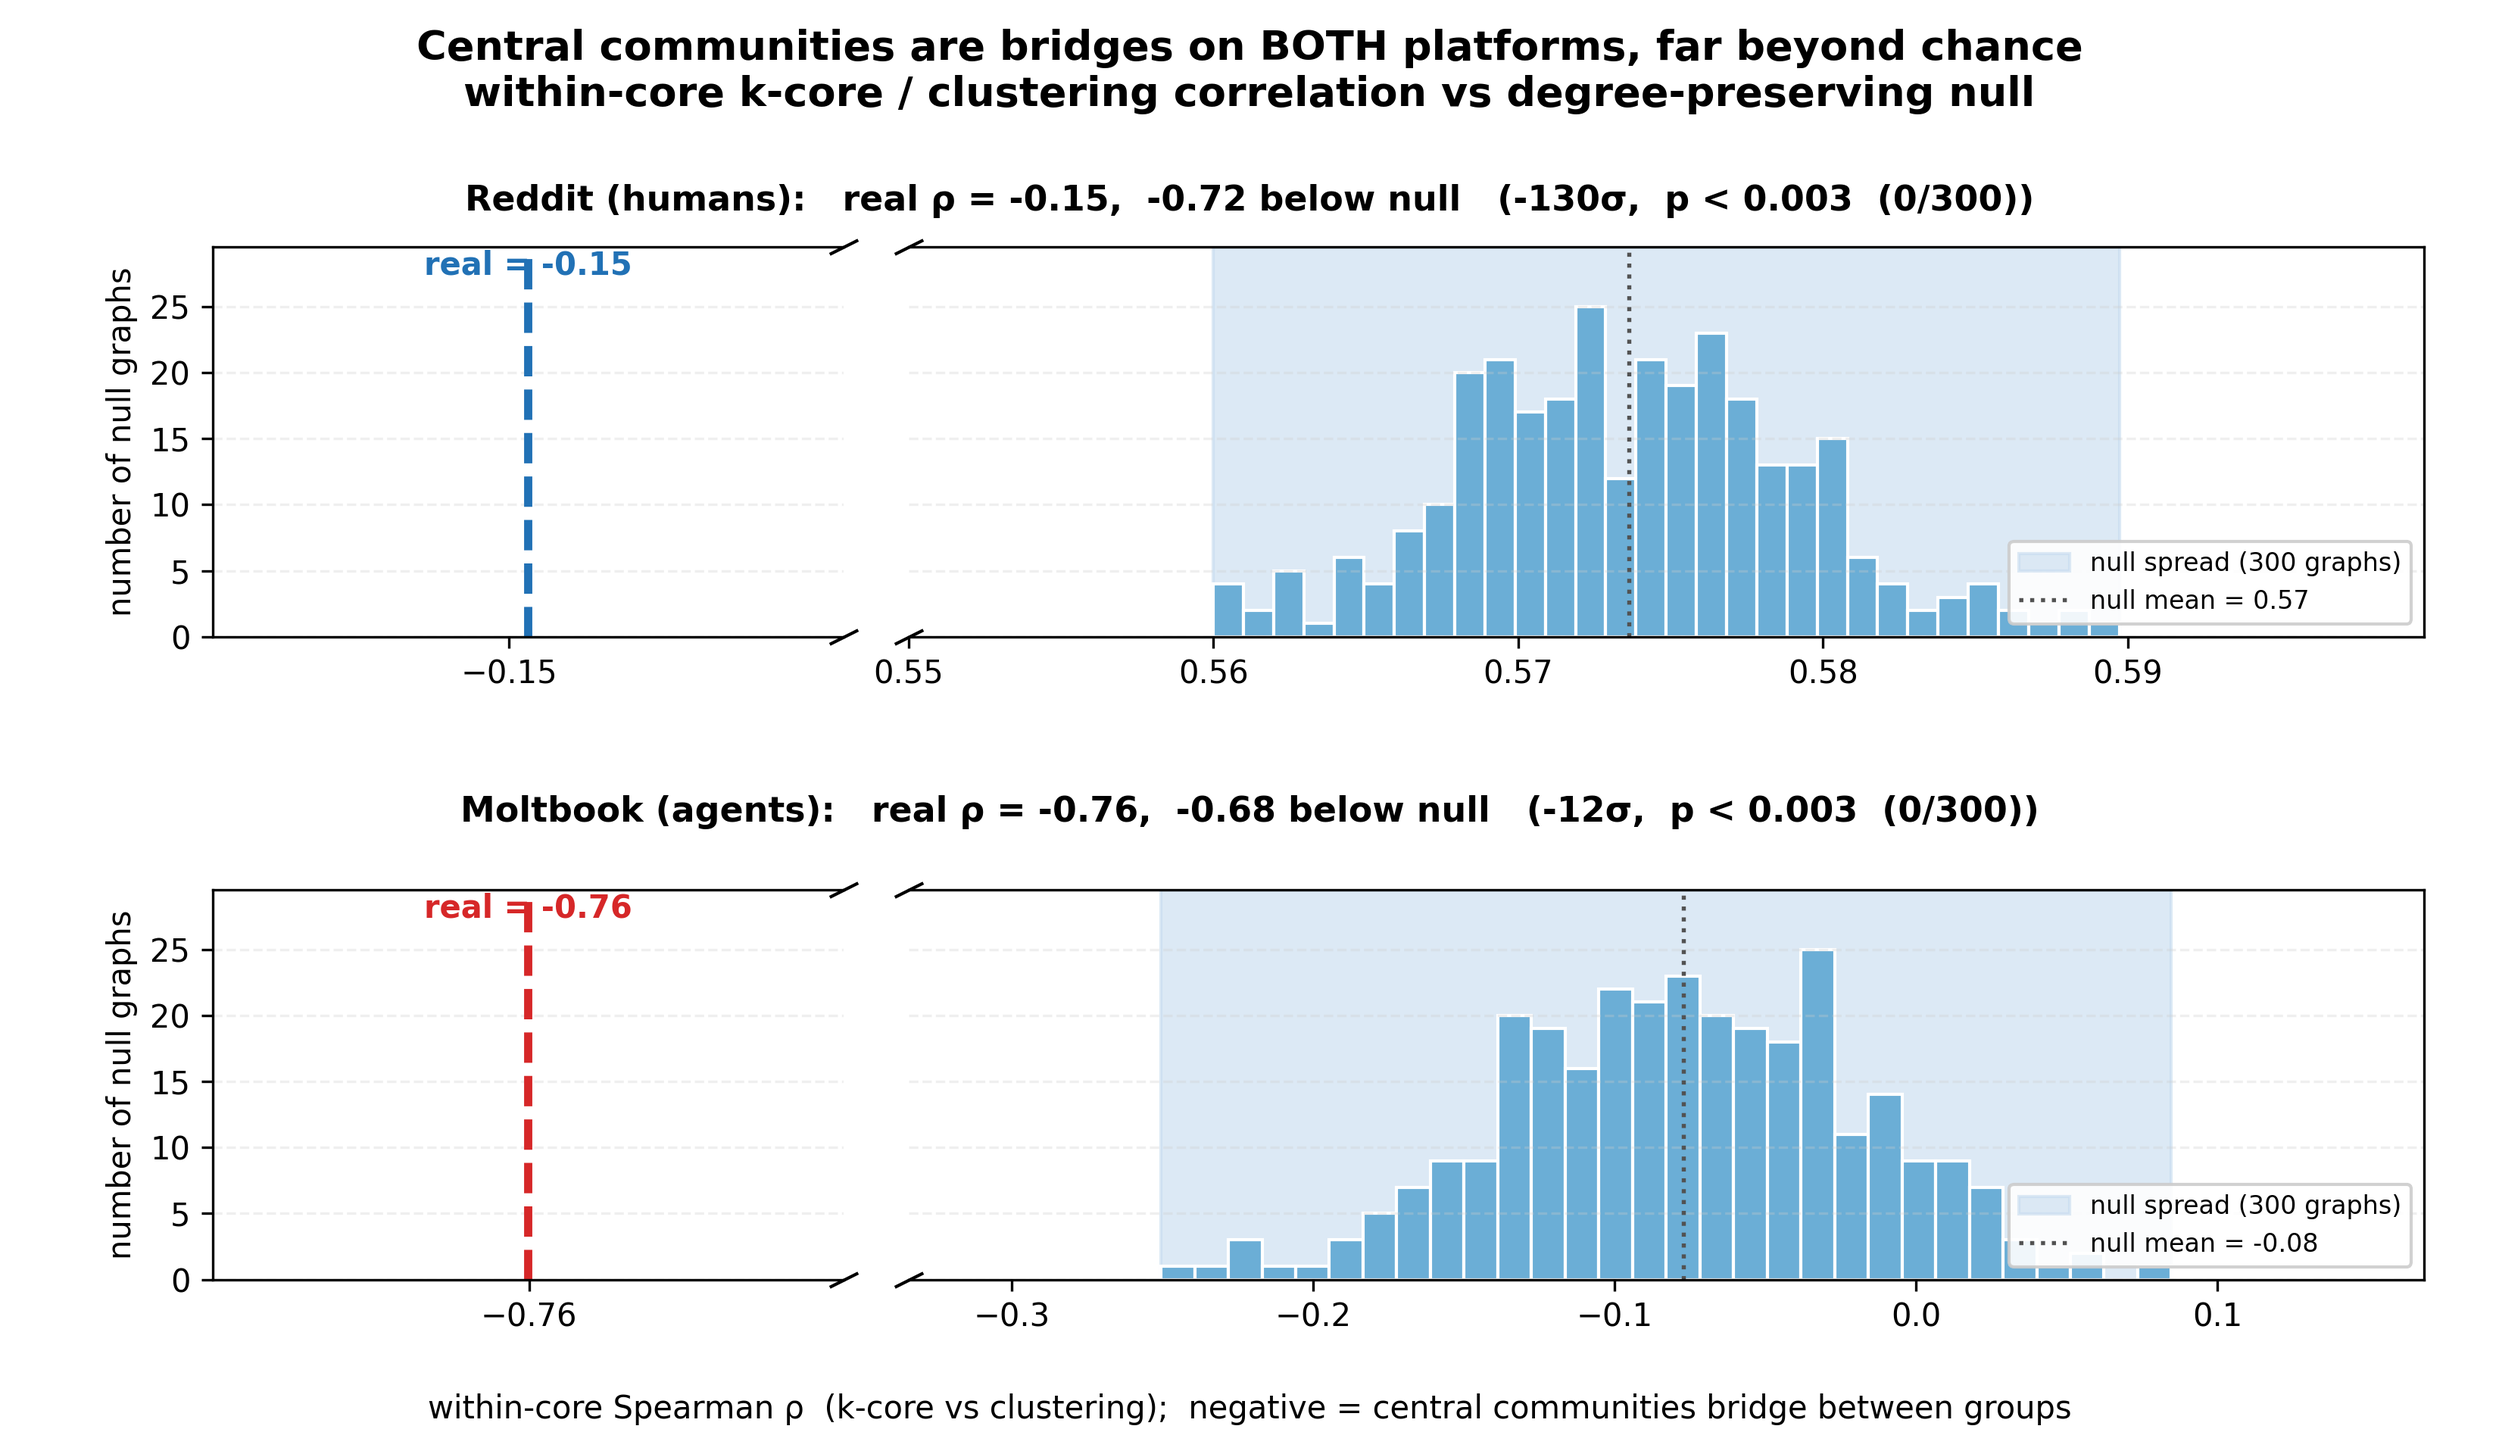
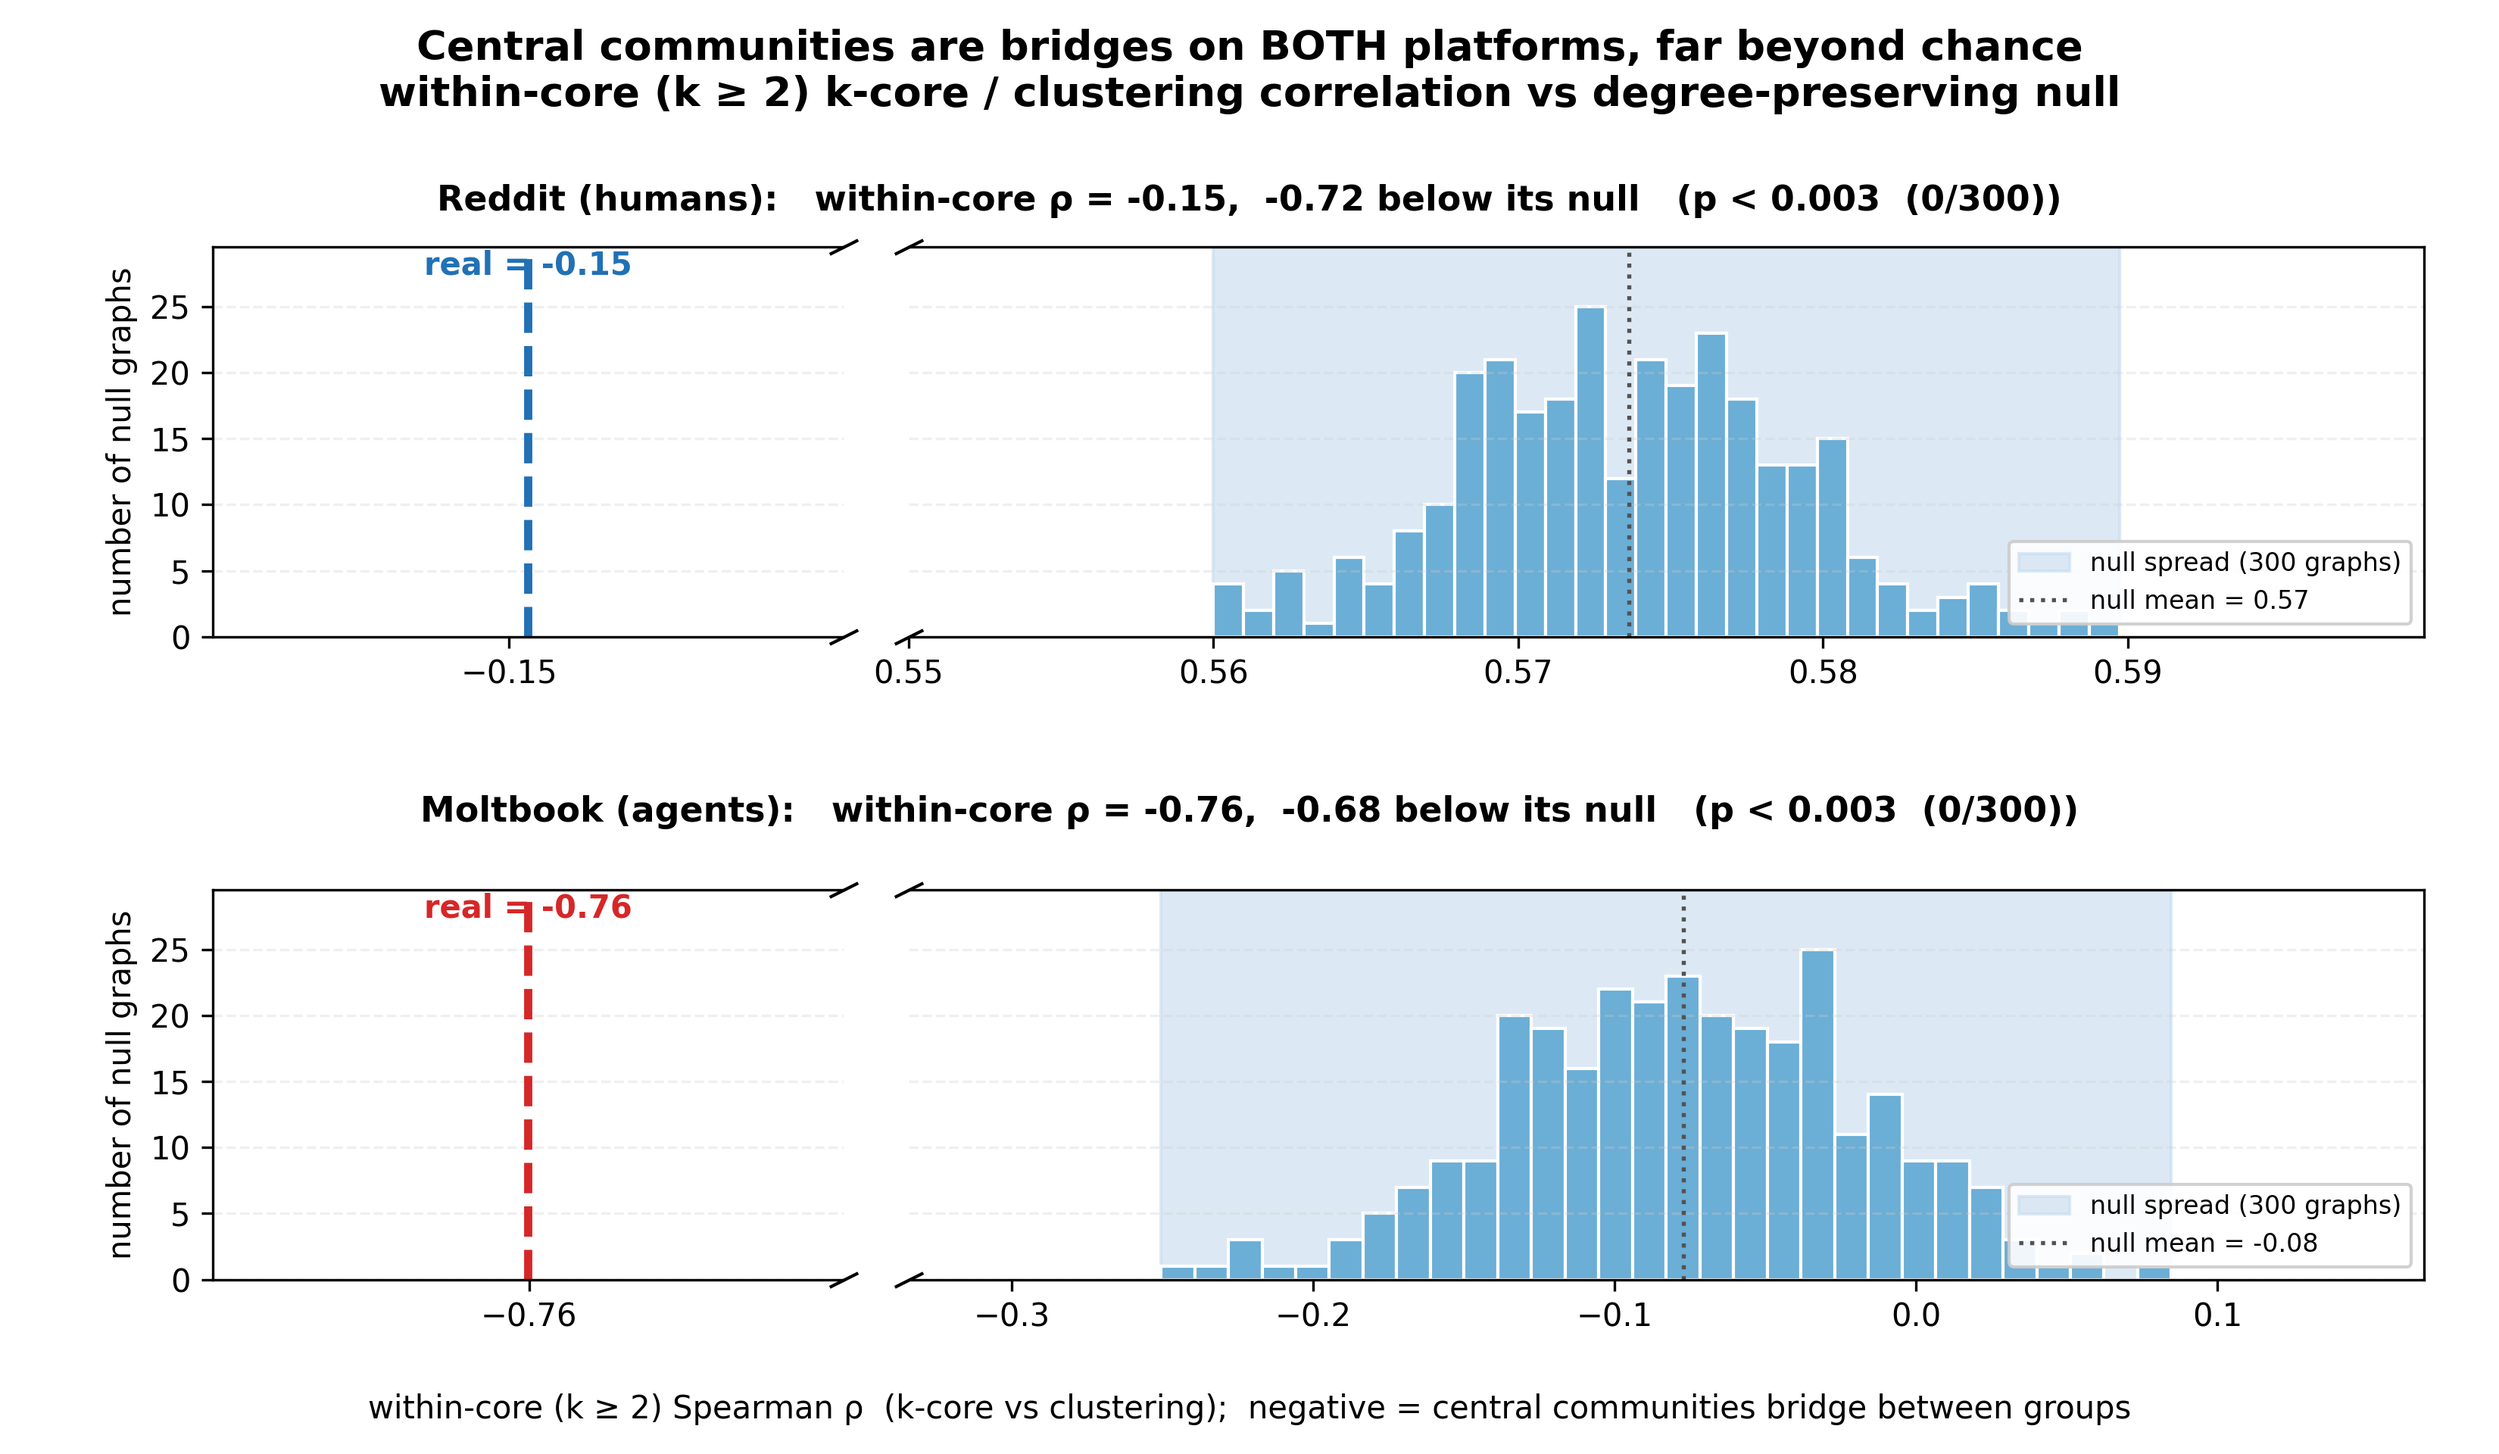
Align null figure with paper: drop sigma, label within-core (k>=2)

diff --git a/moltbook_v2/analysis/coreperiphery_rq3/plot_null_spearman.py b/moltbook_v2/analysis/coreperiphery_rq3/plot_null_spearman.py
@@ -100,11 +100,11 @@ def draw_row(ax_real, ax_null, null, real, label, color, ymax):
         ax.grid(True, axis="y", linestyle="--", alpha=0.3, color="#cccccc")
     break_marks(ax_real, ax_null)
 
-    # comparable effect size (raw gap, the honest cross-platform quantity) and
-    # significance; sigma is shown too but the raw gap is the headline.
+    # The paper frames this comparison by the raw gap below the null (the honest
+    # cross-platform quantity), not by sigma. Keep gap + p; drop sigma.
     gap = real - null.mean()
-    return (f"{label}:   real ρ = {real:.2f},  {gap:+.2f} below null   "
-            f"({sigma_gap(null, real):.0f}σ,  {p_str(null, real)})")
+    return (f"{label}:   within-core ρ = {real:.2f},  "
+            f"{gap:+.2f} below its null   ({p_str(null, real)})")
 
 
 def main():
@@ -128,9 +128,9 @@ def main():
 
     fig.suptitle(
         "Central communities are bridges on BOTH platforms, far beyond chance\n"
-        "within-core k-core / clustering correlation vs degree-preserving null",
+        "within-core (k ≥ 2) k-core / clustering correlation vs degree-preserving null",
         fontsize=13, fontweight="bold", y=0.98)
-    fig.supxlabel("within-core Spearman ρ  (k-core vs clustering);  "
+    fig.supxlabel("within-core (k ≥ 2) Spearman ρ  (k-core vs clustering);  "
                   "negative = central communities bridge between groups",
                   fontsize=10, y=0.02)
     out = FIGS / "null_spearman_comparison.png"
